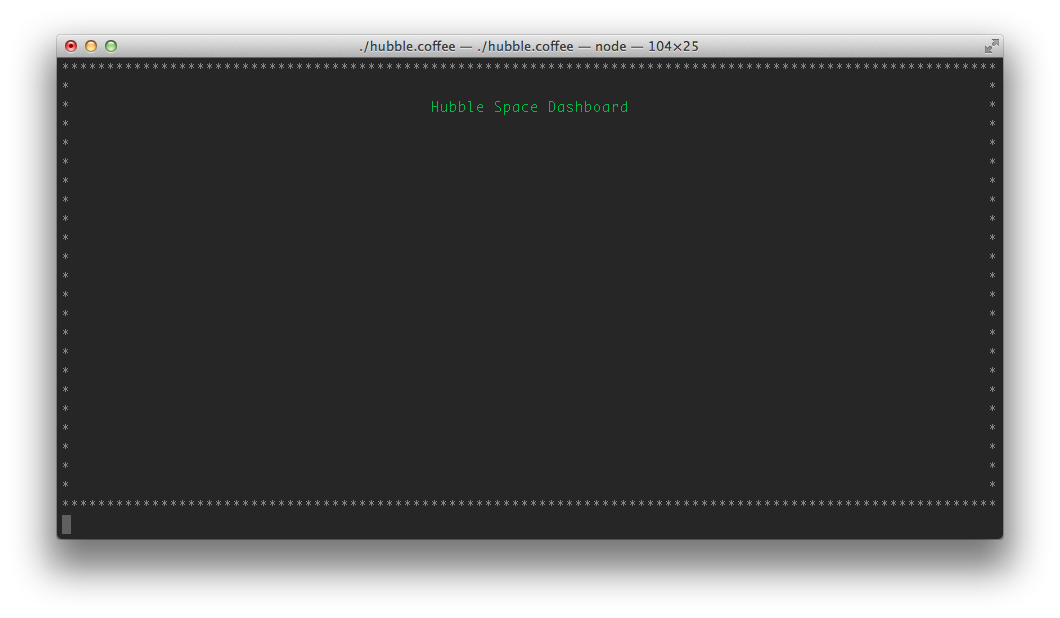
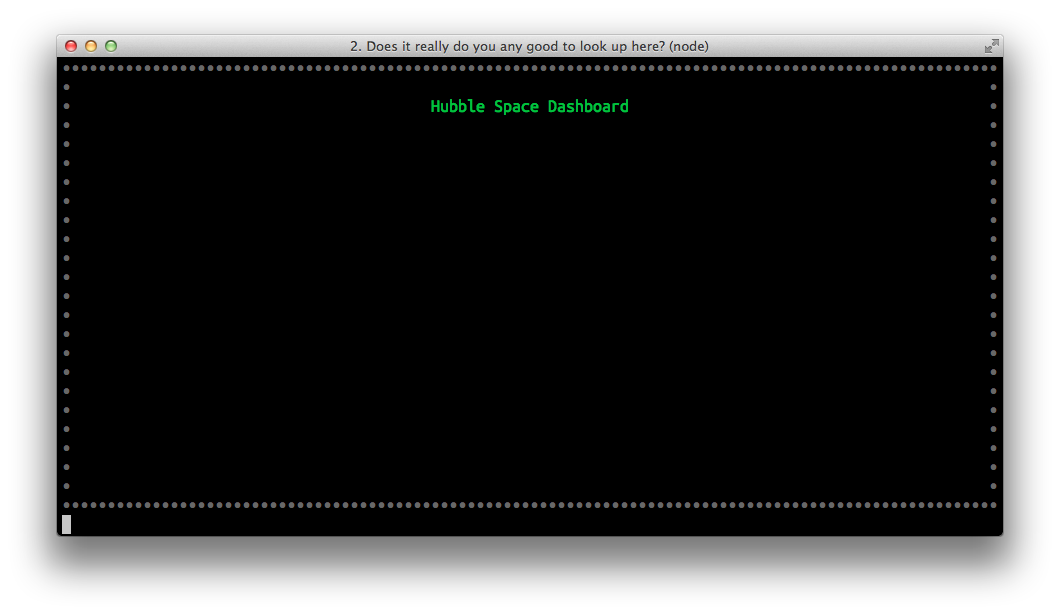
I have OCD, so i'm redoing my screenshots to all have the same shade of black since I changed my terminal. Also, a github value (last commit) was missing and I needed to add it

diff --git a/README.md b/README.md
@@ -91,6 +91,22 @@ A polling example - a github repository dashboard!
 
 Let's setup a few API calls that we'll use for polling. We will track some information about our repository, and have it update every 10 seconds. Lets also change up the colors in the config just for fun. :)
 
+	module.exports =
+		title:  'Github Repository Dashboard'
+		border: '•'
+
+		server:
+			port: 9999
+
+		# for more information about available options, see https://github.com/Marak/colors.js
+		colors:
+			title:  'inverse'
+			border: 'white'
+			high:   'red'
+			low:    'red'
+
+		columns: 2 # how many vertical columns of data for your dashboard
+
 Note: if there are no commits for the project you are working with, there is nothing to count so it shows "Bummer :(". Also, you don't have to supply the '[github:username]:[github:password]' in the api requests, but it will allow you to poll more often (5000 requests per hour vs 60 requests per hour)
 
 	curl http://localhost:9999 \
